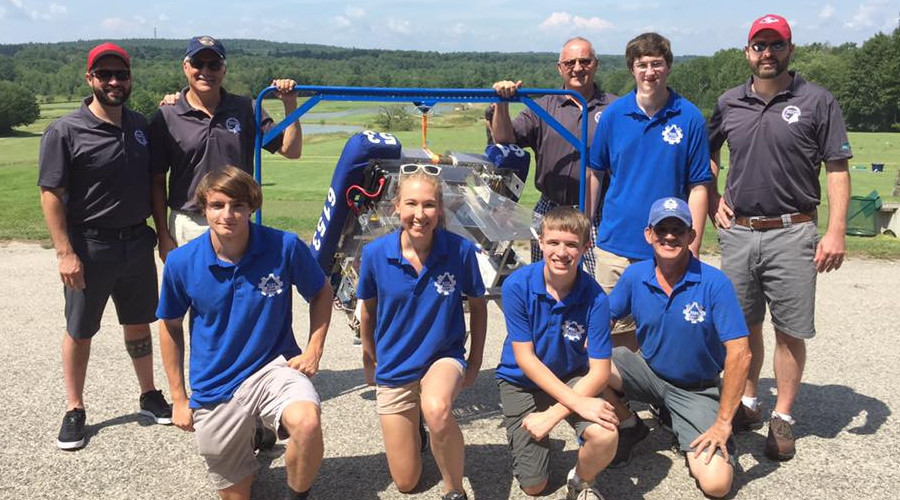
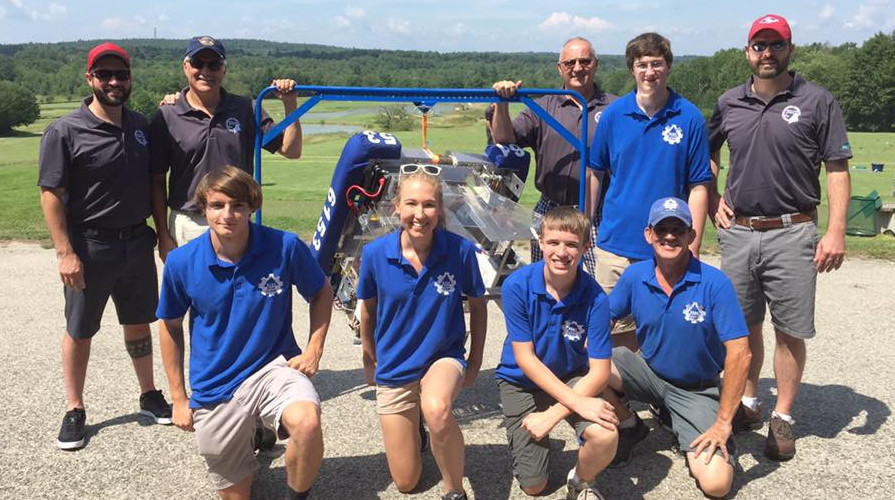
Update Home Page Images

diff --git a/index.php b/index.php
@@ -36,7 +36,15 @@ include_once('resources/include/navbar.php');
     <!-- Wrapper for slides -->
     <div class="carousel-inner" role="listbox">
         <div class="item active">
-        <img src="resources/images/2017.jpg" alt="...">
+        <img src="resources/images/2018.jpg" alt="...">
+        <script type="text/javascript">
+            if(window.innerWidth >= 800 && window.innerHeight >= 600) {
+                document.write('<div class="carousel-caption"><h3>Winning the Entrepreneurship Award at Pine Tree</h3></div>');
+            }
+        </script>
+        </div>
+        <div class="item">
+        <img src="resources/images/2018_2.jpg" alt="...">
         <script type="text/javascript">
             if(window.innerWidth >= 800 && window.innerHeight >= 600) {
                 document.write('<div class="carousel-caption"><h3>Our Team</h3></div>');
@@ -48,14 +56,6 @@ include_once('resources/include/navbar.php');
         <script type="text/javascript">
             if(window.innerWidth >= 800 && window.innerHeight >= 600) {
                 document.write('<div class="carousel-caption"><h3>Pratt &amp; Whitney</h3></div>');
-            }
-        </script>
-        </div>
-        <div class="item">
-        <img src="resources/images/2017_2.jpg" alt="...">
-        <script type="text/javascript">
-            if(window.innerWidth >= 800 && window.innerHeight >= 600) {
-                document.write('<div class="carousel-caption"><h3>Team and Our Superintendent</h3></div>');
             }
         </script>
         </div>
